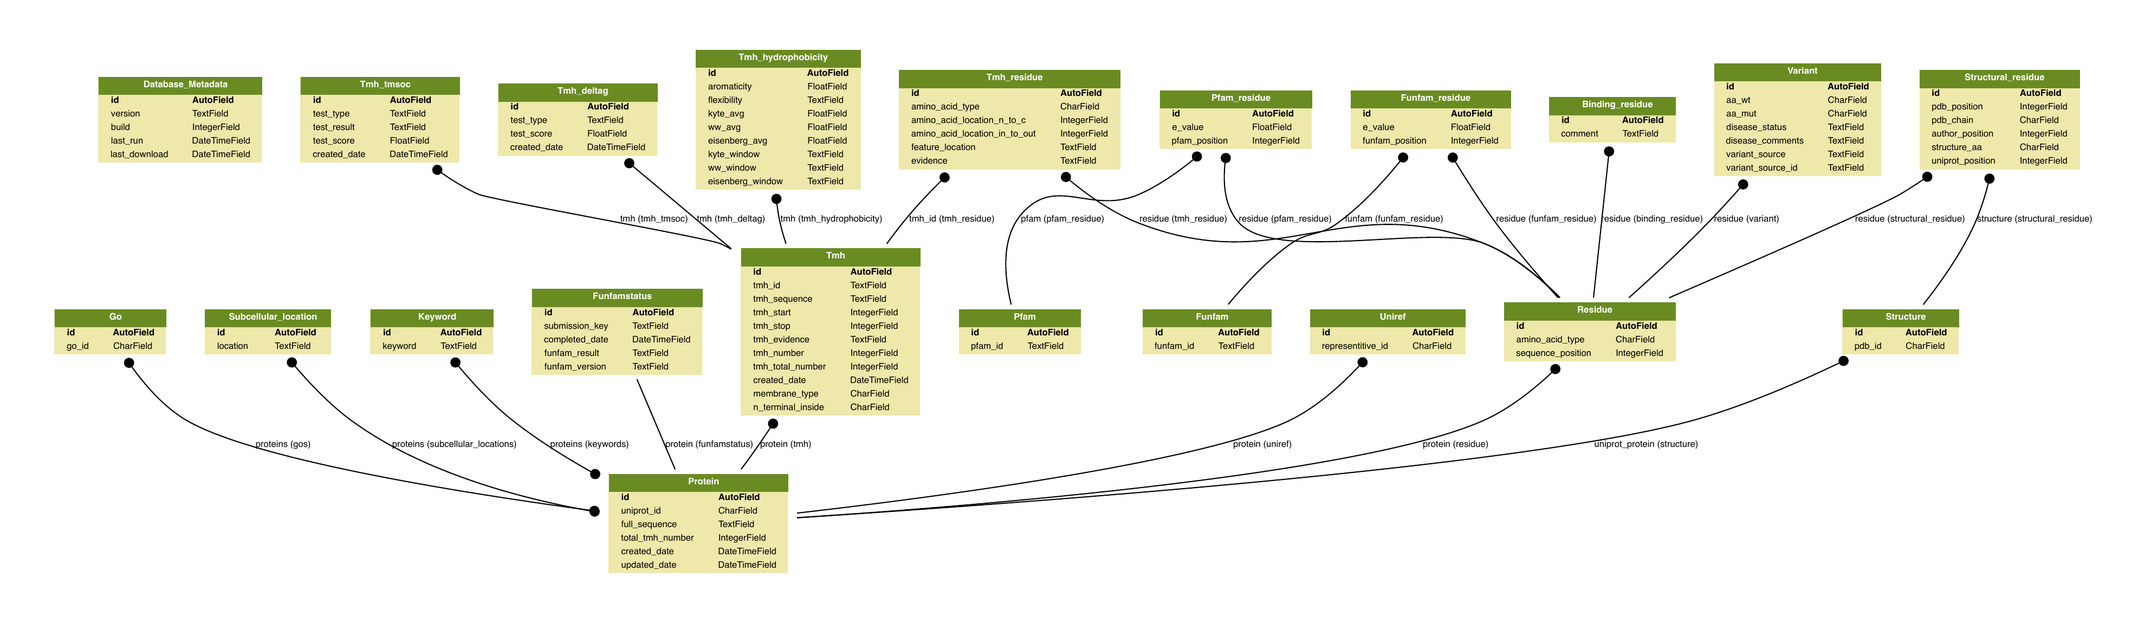
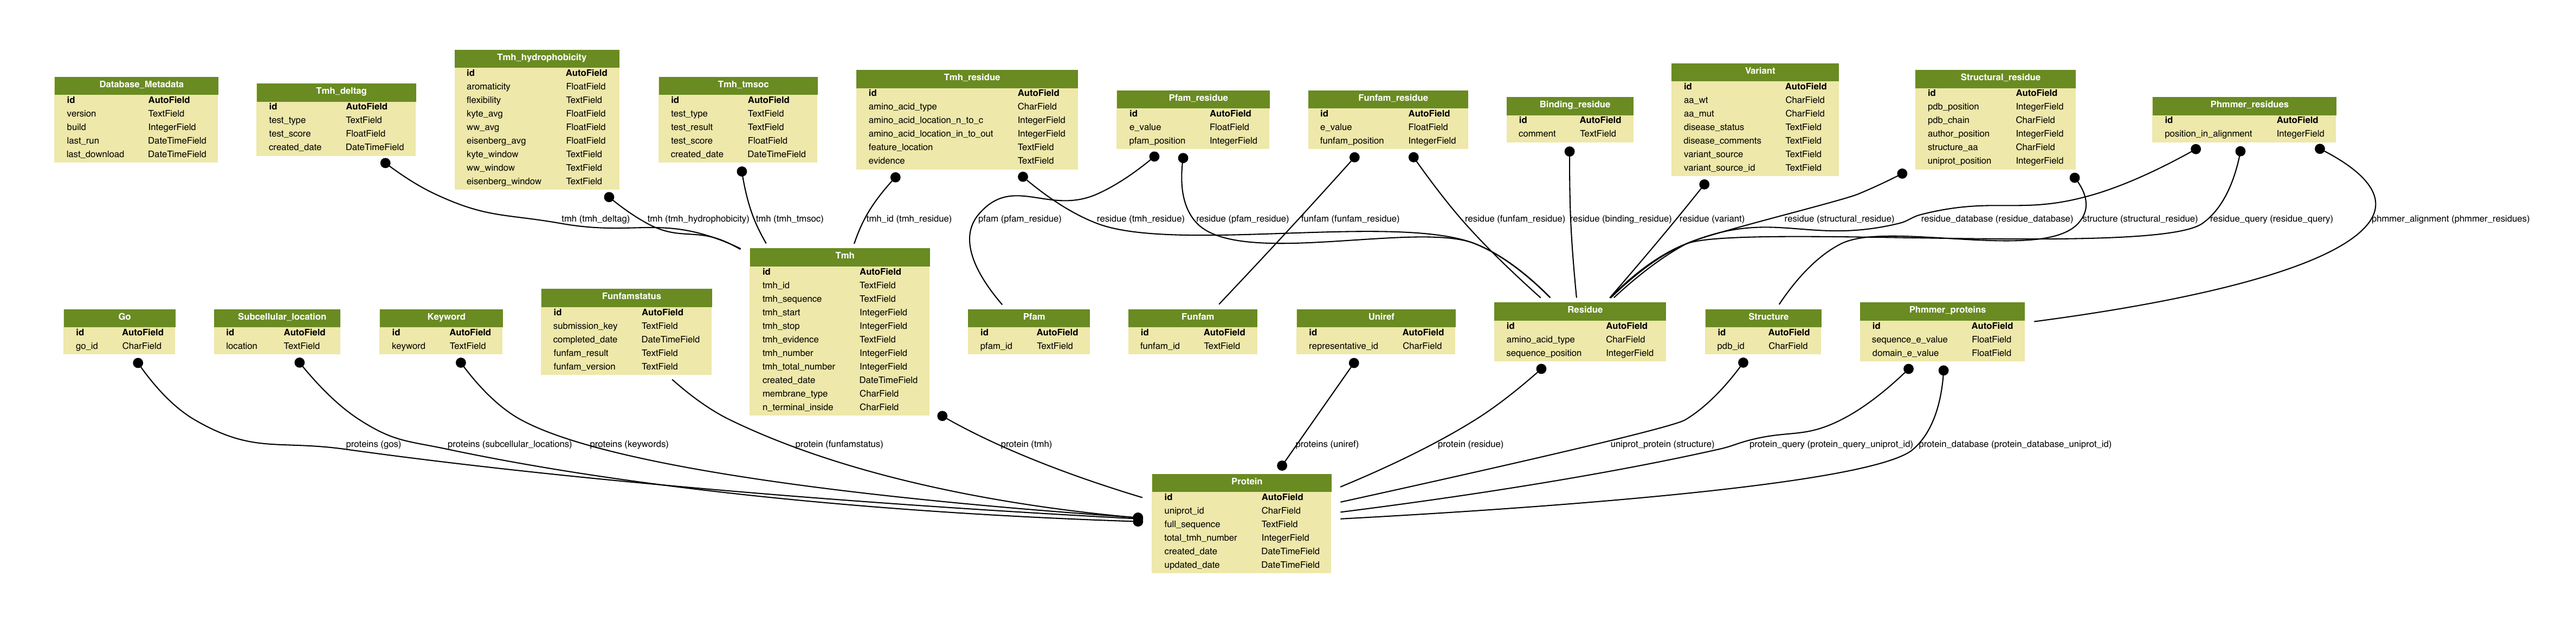
works on issue #65, closes #66, works on #18

Changed region(s): [[0.0, 0.0609, 0.9975, 0.9435], [0.8416, 0.487, 0.9351, 0.5783], [0.4987, 0.7, 0.5299, 0.7304]]

diff --git a/scripts/populate_homology.py b/scripts/populate_homology.py
@@ -124,6 +124,38 @@ def funfam_result(a_query, funfam_submission_code):
                 print("\n")
     return([key, value])
 
+
+def phmmer(a_query):
+    # phmmer scripts/external_datasets/fasta_bin/P30872.fasta scripts/external_datasets/fasta_bin/all/all_fasta.fasta
+    # Usage: phmmer [-options] <seqfile> <seqdb>
+    phmmer_result = check_output(["/usr/local/bin/phmmer", "-E 0.0000000001", "--noali", f"scripts/external_datasets/fasta_bin/{a_query}.fasta", "scripts/external_datasets/fasta_bin/all/all_fasta.fasta"])  # stdout=subprocess.PIPE)
+    overall_results=[]
+    below_threshold = True
+    while below_threshold = True:
+        for n, i in enumerate(phmmer_result):
+            result_line=[]
+            if str("inclusion threshold") in str(result_line):
+                below_threshold = False
+            i=i.split('\t')
+            result_line.append(i)
+            if len(result_line) == 10:
+                overall_results.append(result_line)
+
+        for n, i in enumerate(overall_results):
+            seq_e_value=i[0]
+            dom_e_value=i[3]
+            database_id=i[8]
+
+            query_protein = Protein.objects.get(uniprot_id=a_query)
+            database_protein = Protein.objects.get(uniprot_id=database_id)
+            #THIS IS BROKEN!
+            #phmmer_for_database, created = Uniref.objects.get_or_create(protein_query=query_protein, protein_database=database_protein)
+
+
+
+
+
+
 def uniref(a_query):
     url = 'https://www.uniprot.org/uploadlists/'
 
@@ -140,24 +172,34 @@ def uniref(a_query):
     contact = ""
     request.add_header('User-Agent', 'Python %s' % contact)
     #request=bytes(request, 'utf-8')
-    response = urllib.request.urlopen(request)
-    page = response.read(200000)
-    page=page.decode(encoding='utf-8', errors='strict')
-    page=page.split('\n')
+    response = None
+    while response is None:
+        try:
+            response = urllib.request.urlopen(request)
+            page = response.read(200000)
+            page=page.decode(encoding='utf-8', errors='strict')
+            page=page.split('\n')
+        except ConnectionError:
+            print("Connection dropped during download.")
+    #print(page)
     for n, i in enumerate(page):
         i=i.split('\t')
         page[n]=i
 
-    representative_id=page[1][1]
+    if len(page)>1:
+        representative_id=page[1][1]
 
-    print(a_query, "is represented in UniRef90 by", representative_id)
-    protein = Protein.objects.get(uniprot_id=a_query)
-    representative_id = clean_query(representative_id)
-    record_for_database, created = Uniref.objects.update_or_create(
-        protein=protein,
-        representitive_id=representative_id,
-    )
-    return(True)
+        print(a_query, "is represented in UniRef90 by", representative_id)
+        protein = Protein.objects.get(uniprot_id=a_query)
+        representative_id = clean_query(representative_id)
+        uniref_for_database, created = Uniref.objects.get_or_create(representative_id=representative_id)
+        uniref_for_database.proteins.add(protein)
+
+        return(True)
+    else:
+        print(a_query, "returned no data via UniRef90 API")
+        return(False)
+
 
 def run():
     '''

diff --git a/scripts/summary.py b/scripts/summary.py
@@ -94,12 +94,12 @@ def heatmap_run():
     title = "TMH±5_gnomAD"
     gnomad_tmh_var_freq=list(Variant.objects.exclude(residue__tmh_residue=None).filter(variant_source='gnomAD').values_list("aa_wt", "aa_mut"))
     gnomad_tmh_var_array = heatmap_array(gnomad_tmh_var_freq, aa_list_baezo_order)
-    heatmap(gnomad_tmh_var_array, title, aa_list_baezo_order, "b", None)
+    heatmap(gnomad_tmh_var_array, title, aa_list_baezo_order, "n", None)
 
     title = "non_TMH±5_gnomAD"
     gnomad_non_tmh_var_freq=list(Variant.objects.filter(residue__tmh_residue=None).filter(variant_source='gnomAD').values_list("aa_wt", "aa_mut"))
     gnomad_non_tmh_var_array=heatmap_array(gnomad_non_tmh_var_freq, aa_list_baezo_order)
-    heatmap(gnomad_non_tmh_var_array, title, aa_list_baezo_order, "b", None)
+    heatmap(gnomad_non_tmh_var_array, title, aa_list_baezo_order, "n", None)
 
     # bonkers contingency table idea #
     p_matrix = []
@@ -118,7 +118,7 @@ def heatmap_run():
         residue_count_dict[aa]=aa_count
 
     color_dict_list = {
-    "gnomAD" : "b",
+    "gnomAD" : "n",
     "ClinVar": "d"
     }
 
@@ -224,12 +224,18 @@ def basic_num():
         histogram(performance, f"Frequency of proteins with TMH {disease_status[state]} variants", state,"Number of TMH disease variants", "Number of proteins")
 
 
-        #proteins =  Protein.objects.filter(residue__in=residues).distinct()
-        #location_tmh_var_dict=collections.Counter([i.subcellular_locations.location for i in residues])
-        #print(location_tmh_var_dict)
-        #performance = list(location_tmh_var_dict.values())
-        #objects = list(location_tmh_var_dict.keys())
-        #barchart(objects, performance, f"Frequency of TMH {disease_status[state]} variants in subceullar locations", state, "Subcellular Location", "Number of variants")
+        proteins =  Protein.objects.filter(residue__in=residues).distinct()
+        location_tmh_var_dict=[]
+        for i in proteins:
+            multi_maps=i.subcellular_locations
+            for a_location in multi_maps:
+                location_tmh_var_dict.append(a_location.location)
+
+        collections.Counter(location_tmh_var_dict)
+        print(location_tmh_var_dict)
+        performance = list(location_tmh_var_dict.values())
+        objects = list(location_tmh_var_dict.keys())
+        barchart(objects, performance, f"Frequency of TMH {disease_status[state]} variants in subceullar locations", state, "Subcellular Location", "Number of variants")
 
     #Variant.objects.filter(residue__tmh_residue__feature_location="TMH", disease_status='d', variant_source="ClinVar").count()
 
@@ -268,7 +274,7 @@ def basic_num():
     objects = ("Residues", "TMH ±5 residues", "Non-TMH residues")
     performance = [g_variants_num / residue_num, tmh_g_variants_num /
                    tmh_residue_num, non_tmh_g_variants_num / non_tmh_residue_num]
-    barchart(objects, performance, "TMP_gnomAD_variants", "b", "Residue type", "Variants per residue")
+    barchart(objects, performance, "TMP_gnomAD_variants", "n", "Residue type", "Variants per residue")
 
 
 def run():

diff --git a/tmh_db/migrations/0011_phmmer_proteins_phmmer_residues.py b/tmh_db/migrations/0011_phmmer_proteins_phmmer_residues.py
@@ -1,0 +1,40 @@
+# Generated by Django 2.2 on 2019-06-03 16:54
+
+from django.db import migrations, models
+import django.db.models.deletion
+
+
+class Migration(migrations.Migration):
+
+    dependencies = [
+        ('tmh_db', '0010_auto_20190603_1404'),
+    ]
+
+    operations = [
+        migrations.CreateModel(
+            name='Phmmer_proteins',
+            fields=[
+                ('id', models.AutoField(auto_created=True, primary_key=True, serialize=False, verbose_name='ID')),
+                ('sequence_e_value', models.FloatField(null=True)),
+                ('domain_e_value', models.FloatField(null=True)),
+                ('protein_database', models.ForeignKey(on_delete=django.db.models.deletion.CASCADE, related_name='protein_database_uniprot_id', to='tmh_db.Protein')),
+                ('protein_query', models.ForeignKey(on_delete=django.db.models.deletion.CASCADE, related_name='protein_query_uniprot_id', to='tmh_db.Protein')),
+            ],
+            options={
+                'unique_together': {('protein_query', 'protein_database')},
+            },
+        ),
+        migrations.CreateModel(
+            name='Phmmer_residues',
+            fields=[
+                ('id', models.AutoField(auto_created=True, primary_key=True, serialize=False, verbose_name='ID')),
+                ('position_in_alignment', models.IntegerField()),
+                ('phmmer_alignment', models.ForeignKey(on_delete=django.db.models.deletion.CASCADE, to='tmh_db.Phmmer_proteins')),
+                ('residue_database', models.ForeignKey(on_delete=django.db.models.deletion.CASCADE, related_name='residue_database', to='tmh_db.Residue')),
+                ('residue_query', models.ForeignKey(on_delete=django.db.models.deletion.CASCADE, related_name='residue_query', to='tmh_db.Residue')),
+            ],
+            options={
+                'unique_together': {('phmmer_alignment', 'residue_query', 'residue_database')},
+            },
+        ),
+    ]

diff --git a/tmh_db/models.py b/tmh_db/models.py
@@ -180,5 +180,21 @@ class Structural_residue(models.Model):
     uniprot_position = models.IntegerField()
 
 class Uniref(models.Model):
-    protein = models.ForeignKey(Protein, on_delete=models.CASCADE)
-    representitive_id = models.CharField(max_length=20, unique=True)
+    proteins = models.ManyToManyField(Protein)
+    representative_id = models.CharField(max_length=20, unique=True)
+
+class Phmmer_proteins(models.Model):
+    protein_query = models.ForeignKey(Protein, on_delete=models.CASCADE, related_name='protein_query_uniprot_id')
+    protein_database = models.ForeignKey(Protein, on_delete=models.CASCADE, related_name='protein_database_uniprot_id')
+    sequence_e_value = models.FloatField(null=True)
+    domain_e_value = models.FloatField(null=True)
+    class Meta:
+        unique_together = ["protein_query", "protein_database"]
+
+class Phmmer_residues(models.Model):
+    phmmer_alignment = models.ForeignKey(Phmmer_proteins, on_delete=models.CASCADE)
+    position_in_alignment = models.IntegerField()
+    residue_query = models.ForeignKey(Residue, on_delete=models.CASCADE, related_name='residue_query')
+    residue_database = models.ForeignKey(Residue, on_delete=models.CASCADE, related_name='residue_database')
+    class Meta:
+        unique_together = ["phmmer_alignment", "residue_query", "residue_database"]

diff --git a/scripts/graphs.py b/scripts/graphs.py
@@ -29,7 +29,7 @@ def barchart(objects, performance, source, state, x_label, y_label):
 def histogram(performance, source, state,x_label, y_label):
     color_dic = {
         "d": "red",
-        "b": "green",
+        "n": "green",
         "a": "grey"
     }
     plt.yscale('log', nonposy='clip')
@@ -44,7 +44,7 @@ def heatmap(var_freqs_list, title, aa_list_baezo_order, state, is_it_log):
 
     color_dic = {
         "d": "Reds",
-        "b": "Greens",
+        "n": "Greens",
         "a": "Greys",
         "s": "cubehelix"
     }

diff --git a/tmh_db/migrations/0008_auto_20190603_1335.py b/tmh_db/migrations/0008_auto_20190603_1335.py
@@ -1,0 +1,22 @@
+# Generated by Django 2.2 on 2019-06-03 13:35
+
+from django.db import migrations, models
+
+
+class Migration(migrations.Migration):
+
+    dependencies = [
+        ('tmh_db', '0007_subcellular_location'),
+    ]
+
+    operations = [
+        migrations.RemoveField(
+            model_name='uniref',
+            name='protein',
+        ),
+        migrations.AddField(
+            model_name='uniref',
+            name='protein',
+            field=models.ManyToManyField(to='tmh_db.Protein'),
+        ),
+    ]

diff --git a/tmh_db/migrations/0009_auto_20190603_1358.py b/tmh_db/migrations/0009_auto_20190603_1358.py
@@ -1,0 +1,18 @@
+# Generated by Django 2.2 on 2019-06-03 13:58
+
+from django.db import migrations
+
+
+class Migration(migrations.Migration):
+
+    dependencies = [
+        ('tmh_db', '0008_auto_20190603_1335'),
+    ]
+
+    operations = [
+        migrations.RenameField(
+            model_name='uniref',
+            old_name='representitive_id',
+            new_name='representative_id',
+        ),
+    ]

diff --git a/tmh_db/migrations/0010_auto_20190603_1404.py b/tmh_db/migrations/0010_auto_20190603_1404.py
@@ -1,0 +1,18 @@
+# Generated by Django 2.2 on 2019-06-03 14:04
+
+from django.db import migrations
+
+
+class Migration(migrations.Migration):
+
+    dependencies = [
+        ('tmh_db', '0009_auto_20190603_1358'),
+    ]
+
+    operations = [
+        migrations.RenameField(
+            model_name='uniref',
+            old_name='protein',
+            new_name='proteins',
+        ),
+    ]

diff --git a/readme.md b/readme.md
@@ -26,11 +26,11 @@ As well as gaining an understanding of the concepts of disease variants in trans
 
 ## Statistics
 
-![Barplot showing the number of disease variants per residue in transmembrane and non transmembrane regions.](images/enrichment_All_disease_variants.png)
+![Barplot showing the number of disease variants per residue in transmembrane and non transmembrane regions.](images/TMP_disease_variants.png)
 
 **Figure** This is the number of disease variants per residue in transmembrane and non transmembrane regions held in the database. Disease variants are enriched in transmembrane helix regions compared to non-transmembrane helical regions of transmembrane proteins.
 
-![Barplot showing the number of gnomAD variants per residue in transmembrane and non transmembrane regions.](images/enrichment_All_gnomAD_variants.png)
+![Barplot showing the number of gnomAD variants per residue in transmembrane and non transmembrane regions.](images/TMP_gnomAD_variants.png)
 
 **Figure** This is the number of gnomAD variants per residue in transmembrane and non transmembrane regions held in the database.
 
